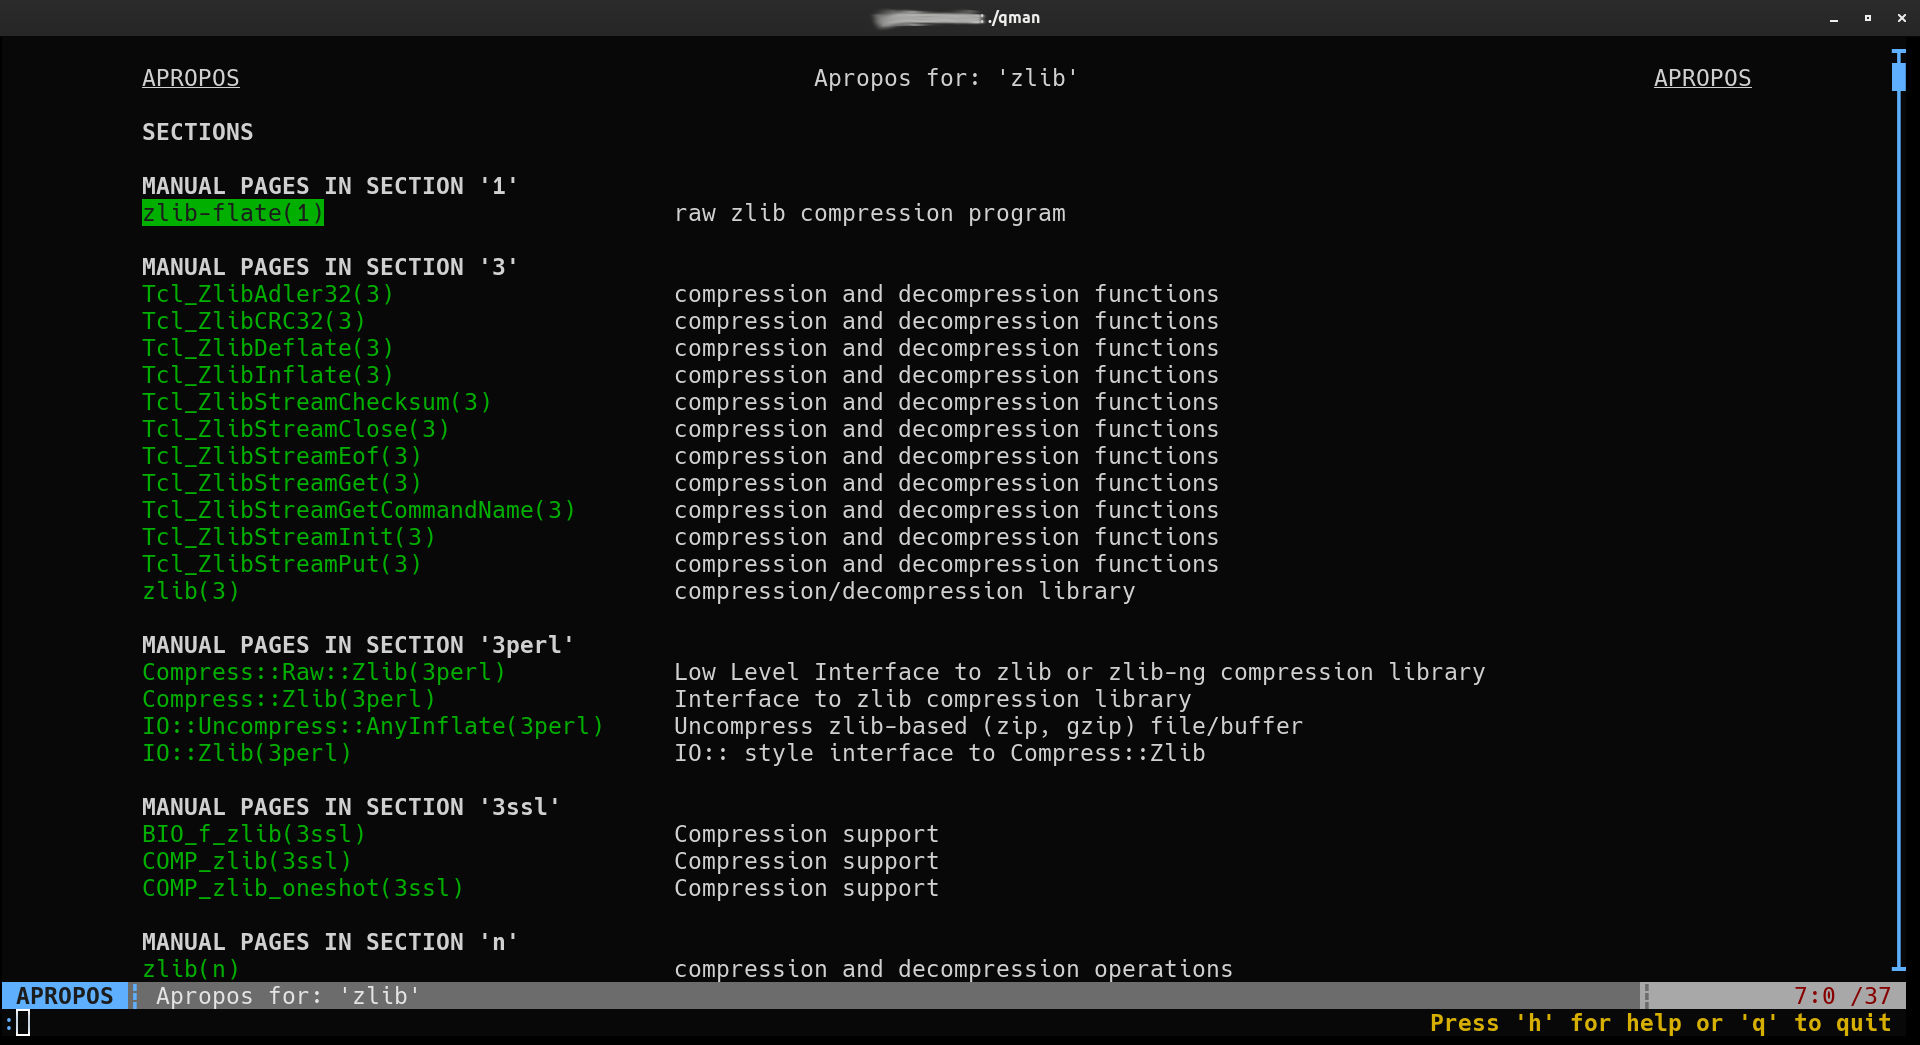
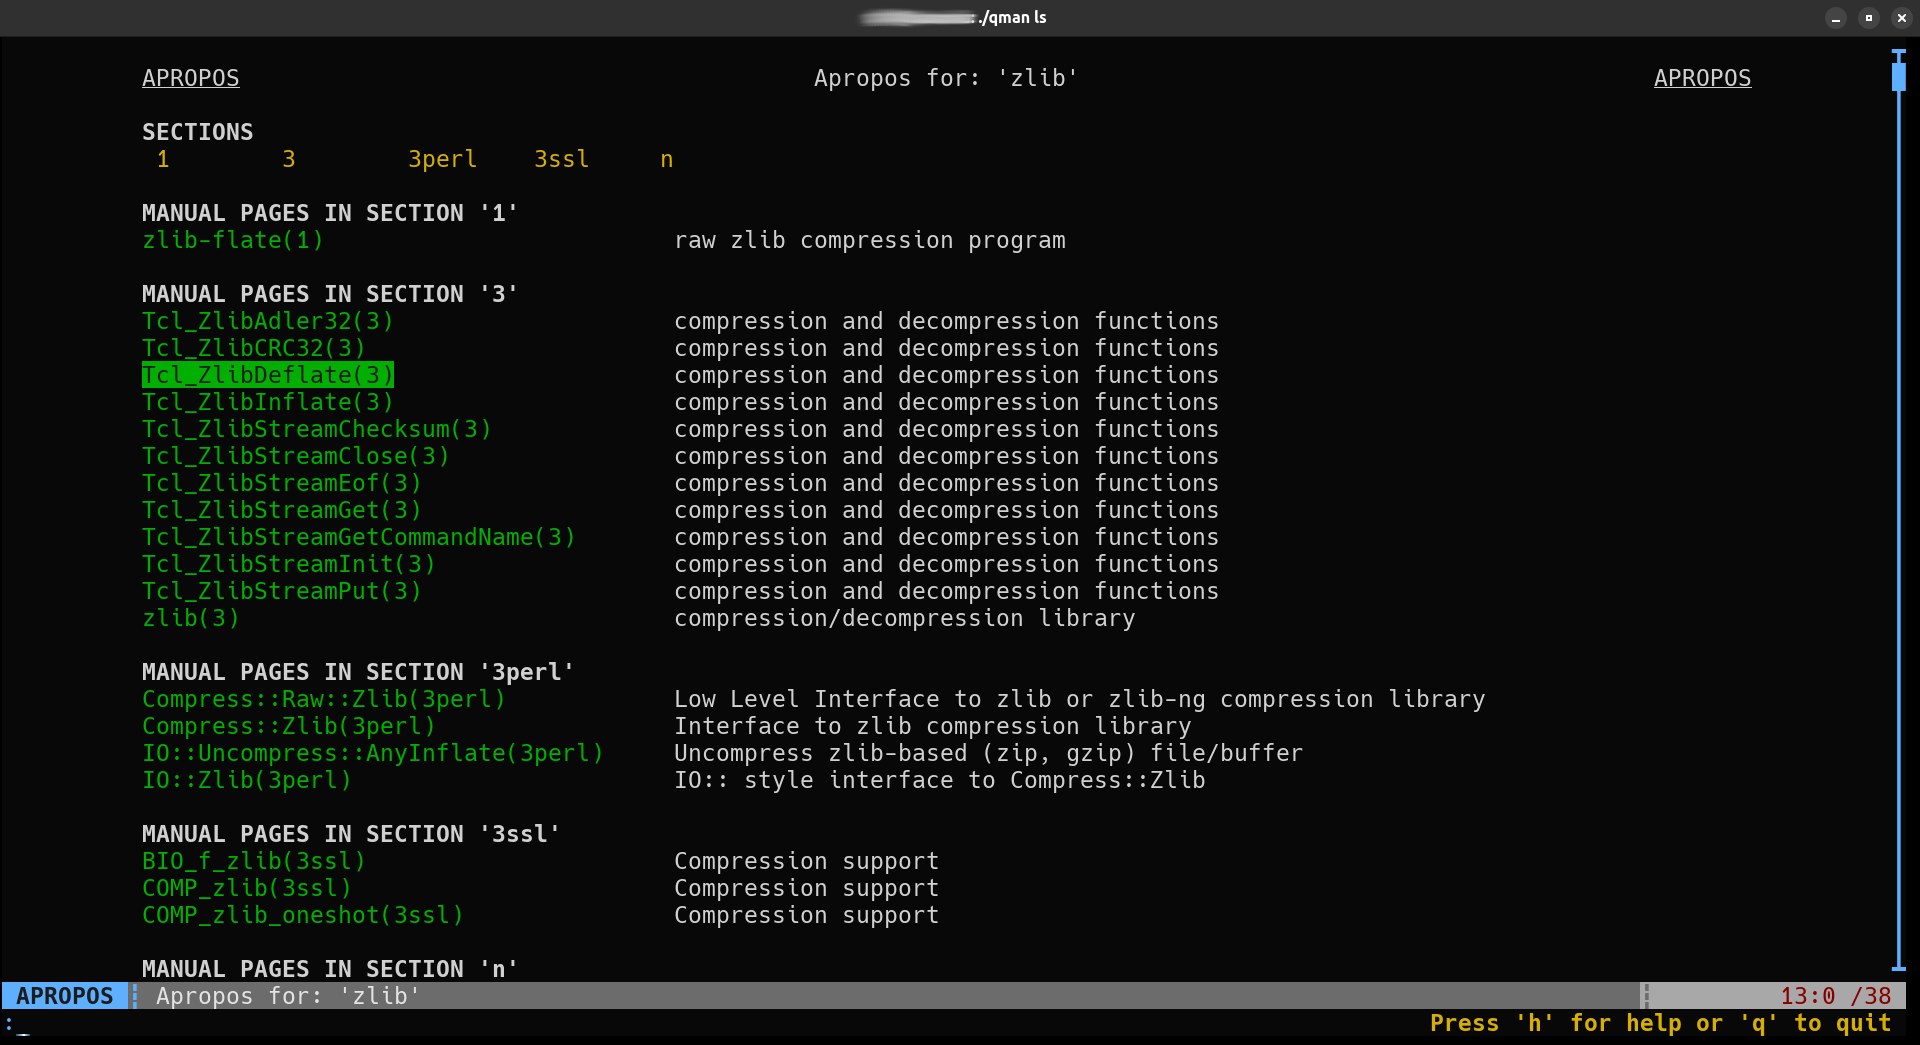
Improved README.md Added/replaced some screenshots

diff --git a/README.md b/README.md
@@ -12,6 +12,9 @@ Opening a manual page:
 Viewing a manual page:
 ![Viewing a Manual Page](/screenshots/qman_man.png)
 
+Using the table of contents:
+![Searching incrementally](/screenshots/qman_toc.png)
+
 Searching incrementally:
 ![Searching incrementally](/screenshots/qman_search.png)
 
@@ -27,18 +30,19 @@ downright useful. However, the standard way of accessing them from the
 command-line hasn't changed since the early days.
 
 Qman aims to change that. It's a modern, full-featured manual page viewer
-featuring hyperlinks, web browser like navigation, incremental search, on-line
-help, and more. It also strives to be fast and tiny, so that it can be used
-everywhere. For this reason, it's been written in plain C and has only minimal
-dependencies.
+featuring hyperlinks, web browser like navigation, a table of contents for each
+page, incremental search, on-line help, and more. It also strives to be fast and
+tiny, so that it can be used everywhere. For this reason, it's been written in
+plain C and has only minimal dependencies.
 
-## Features already implemented
+## Features
 - Index page that displays all manual pages available on the system, sorted
   alphabetically and organised by section
-- Apropos and whatis pages
+- Pages for apropos and whatis results
 - Hyperlinks to other manual pages
 - Hyperlinks for URLs and email addresses (handled with xdg-open by default)
 - In-page hyperlinks
+- A table of contents for each manual page
 - Incremental search for manual pages
 - Incremental free page text search
 - Command-line options similar to those of `man` (most importantly, `-k` and
@@ -50,22 +54,40 @@ dependencies.
 - Fully configurable using an INI-style config file
 - Manual page
 
-All basic functionality has now been completed. However, the program should
-still be considered as beta quality. Please try it out and report any
-[issues](https://github.com/plp13/qman/issues).
+## Project status 
+All basic functionality has been completed. The software has been in use for
+over a year now, and should considered stable. Bugs may still arise, of course,
+and should be reported using the [issues](https://github.com/plp13/qman/issues)
+page.
+
+## Downloading
+Clone out the [main](https://github.com/plp13/qman/tree/main) branch, which
+contains Qman's latest stable version:
+
+```
+$ git clone -b main https://github.com/plp13/qman qman
+```
+
+If you wish to contribute to the program's development, clone out the
+[devel](https://github.com/plp13/qman/tree/devel) branch.
+
+```
+$ git clone -b devel https://github.com/plp13/qman qman
+```
 
 ## Dependencies
 Qman is written in plain C, and thus requires a compiler such as `gcc` or
-`clang`. Its only library dependencies are `glibc`, `ncurses`, and `hinit`. It
-uses the `meson` build system. Its manual page is written in Markdown, and is
-compiled using `pandoc`.
+`clang`. Its only library dependencies are `glibc`, `ncurses`, `hinit`, and
+`zlib`. It uses the `meson` build system. Its manual page is written in
+Markdown, and is compiled using `pandoc`.
 
 CAUTION: `pandoc` is written in Haskell and requires installing a large number
 of dependencies. These are only necessary for compiling Qman's manual page, and
 can be removed after building. 
 
-In order for the program to make sense, a Unix manual pages database must also
-be installed.
+The program is a front-end to GNU `man`, and therefore requires `man` and
+`groff` to be installed. In order for it to make sense, a Unix manual pages
+database must also be present.
 
 The following commands should install all necessary dependencies for different
 operating systems and distros:
@@ -132,8 +154,7 @@ These steps should also work with Red Hat Enterprise Linux 8 and AlmaLinux 8.
 ```
 
 ## Building and installing
-Make sure all of the above dependencies are installed on your system, and do the
-following:
+Make sure all of the above dependencies are installed, and do the following:
 
 ```
 $ meson setup build/ src/
@@ -164,7 +185,7 @@ $ qman qman
 *Calling `qman` without any parameters fails with message `Apropos '': nothing
 appropriate`*
 
-Your system does not have a manual page indexi cache. This can be fixed by
+Your system does not have a manual page index cache. This can be fixed by
 running (as root):
 
 ```
@@ -176,17 +197,17 @@ of my configuration file, but now I'm unable to copy text to the clipboard using
 the mouse, and/or my mouse behaves erratically*
 
 Mouse support is experimental, and depends on features that are not fully
-implemented by all terminals. See the manual page for more information.
+implemented by all terminals. See Qman's manual page for more information.
 
-*Trying to open an HTTP or e-mail causes the program to terminate (or does
+*Trying to open an HTTP or e-mail link causes the program to terminate (or does
 nothing)*
 
 By default, Qman uses `xdg-open` to open such links. On desktop Linux systems,
-this is sufficient to open them using the default browser / email client. On all
-other systems, you must specify alternative programs with the `browser_path` and
-`mailer_path` options in the `misc` section of `qman`'s configuration file.
-To avoid opening such links altogether, set both options to a command that does
-nothing, e.g. `/usr/bin/false`.
+this is sufficient to open them using the default browser / email client. On
+other systems, you may need to specify alternative programs with the
+`browser_path` and `mailer_path` options in the `misc` section of Qman's
+configuration file. To avoid opening such links altogether, set both options to
+a command that does nothing, e.g. `/usr/bin/false`.
 
 *Qman does not look as pretty on my system as in the screenshots*
 
